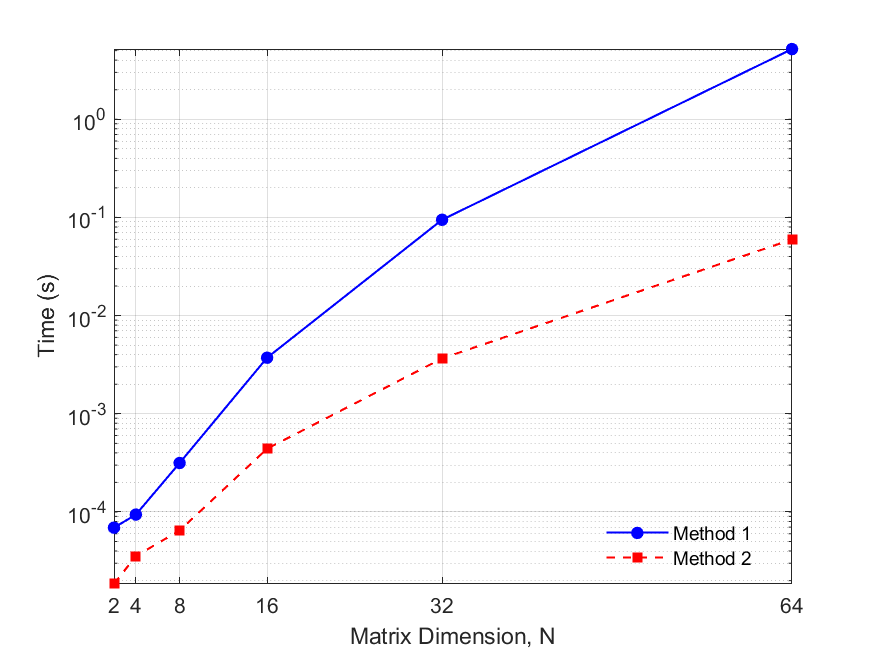
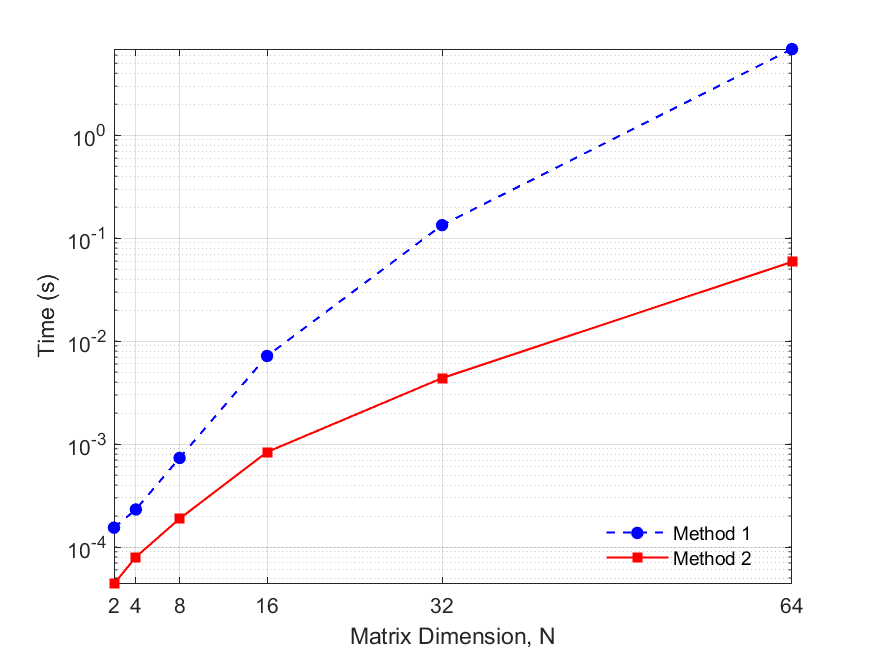
task: Problem-1-a Monte Carlo

diff --git a/Master/TIP8419-ALGEBRA_LINEAR_E_MULTILINEAR/homework/homework_0/hw0-report.html b/Master/TIP8419-ALGEBRA_LINEAR_E_MULTILINEAR/homework/homework_0/hw0-report.html
@@ -56,9 +56,9 @@
 </ol>
 <h2 id="problem-1">Problem 1</h2>
 <h3 id="item-a">Item (a)</h3>
-<blockquote>
-<p>Method 1</p>
-</blockquote>
+<ul>
+<li>Method 1</li>
+</ul>
 <p class="katex-block"><span class="katex-display"><span class="katex"><span class="katex-mathml"><math xmlns="http://www.w3.org/1998/Math/MathML" display="block"><semantics><mrow><mo stretchy="false">(</mo><msub><mi mathvariant="bold">A</mi><mrow><mi>N</mi><mo>×</mo><mi>N</mi></mrow></msub><mo>⊗</mo><msub><mi mathvariant="bold">B</mi><mrow><mi>N</mi><mo>×</mo><mi>N</mi></mrow></msub><msup><mo stretchy="false">)</mo><mrow><mo>−</mo><mn>1</mn></mrow></msup></mrow><annotation encoding="application/x-tex">(\mathbf{A}_{N \times N} \otimes \mathbf{B}_{N \times N} )^{-1}
 </annotation></semantics></math></span><span class="katex-html" aria-hidden="true"><span class="base"><span class="strut" style="height:1em;vertical-align:-0.25em;"></span><span class="mopen">(</span><span class="mord"><span class="mord mathbf">A</span><span class="msupsub"><span class="vlist-t vlist-t2"><span class="vlist-r"><span class="vlist" style="height:0.3283em;"><span style="top:-2.55em;margin-left:0em;margin-right:0.05em;"><span class="pstrut" style="height:2.7em;"></span><span class="sizing reset-size6 size3 mtight"><span class="mord mtight"><span class="mord mathnormal mtight" style="margin-right:0.10903em;">N</span><span class="mbin mtight">×</span><span class="mord mathnormal mtight" style="margin-right:0.10903em;">N</span></span></span></span></span><span class="vlist-s"></span></span><span class="vlist-r"><span class="vlist" style="height:0.2083em;"><span></span></span></span></span></span></span><span class="mspace" style="margin-right:0.2222em;"></span><span class="mbin">⊗</span><span class="mspace" style="margin-right:0.2222em;"></span></span><span class="base"><span class="strut" style="height:1.1141em;vertical-align:-0.25em;"></span><span class="mord"><span class="mord mathbf">B</span><span class="msupsub"><span class="vlist-t vlist-t2"><span class="vlist-r"><span class="vlist" style="height:0.3283em;"><span style="top:-2.55em;margin-left:0em;margin-right:0.05em;"><span class="pstrut" style="height:2.7em;"></span><span class="sizing reset-size6 size3 mtight"><span class="mord mtight"><span class="mord mathnormal mtight" style="margin-right:0.10903em;">N</span><span class="mbin mtight">×</span><span class="mord mathnormal mtight" style="margin-right:0.10903em;">N</span></span></span></span></span><span class="vlist-s"></span></span><span class="vlist-r"><span class="vlist" style="height:0.2083em;"><span></span></span></span></span></span></span><span class="mclose"><span class="mclose">)</span><span class="msupsub"><span class="vlist-t"><span class="vlist-r"><span class="vlist" style="height:0.8641em;"><span style="top:-3.113em;margin-right:0.05em;"><span class="pstrut" style="height:2.7em;"></span><span class="sizing reset-size6 size3 mtight"><span class="mord mtight"><span class="mord mtight">−</span><span class="mord mtight">1</span></span></span></span></span></span></span></span></span></span></span></span></span></p>
 <ul>
@@ -67,7 +67,9 @@
 <p class="katex-block"><span class="katex-display"><span class="katex"><span class="katex-mathml"><math xmlns="http://www.w3.org/1998/Math/MathML" display="block"><semantics><mrow><mo stretchy="false">(</mo><msub><mi mathvariant="bold">A</mi><mrow><mi>N</mi><mo>×</mo><mi>N</mi></mrow></msub><msup><mo stretchy="false">)</mo><mrow><mo>−</mo><mn>1</mn></mrow></msup><mo>⊗</mo><mo stretchy="false">(</mo><msub><mi mathvariant="bold">B</mi><mrow><mi>N</mi><mo>×</mo><mi>N</mi></mrow></msub><msup><mo stretchy="false">)</mo><mrow><mo>−</mo><mn>1</mn></mrow></msup></mrow><annotation encoding="application/x-tex">(\mathbf{A}_{N \times N})^{-1} \otimes (\mathbf{B}_{N \times N})^{-1}
 </annotation></semantics></math></span><span class="katex-html" aria-hidden="true"><span class="base"><span class="strut" style="height:1.1141em;vertical-align:-0.25em;"></span><span class="mopen">(</span><span class="mord"><span class="mord mathbf">A</span><span class="msupsub"><span class="vlist-t vlist-t2"><span class="vlist-r"><span class="vlist" style="height:0.3283em;"><span style="top:-2.55em;margin-left:0em;margin-right:0.05em;"><span class="pstrut" style="height:2.7em;"></span><span class="sizing reset-size6 size3 mtight"><span class="mord mtight"><span class="mord mathnormal mtight" style="margin-right:0.10903em;">N</span><span class="mbin mtight">×</span><span class="mord mathnormal mtight" style="margin-right:0.10903em;">N</span></span></span></span></span><span class="vlist-s"></span></span><span class="vlist-r"><span class="vlist" style="height:0.2083em;"><span></span></span></span></span></span></span><span class="mclose"><span class="mclose">)</span><span class="msupsub"><span class="vlist-t"><span class="vlist-r"><span class="vlist" style="height:0.8641em;"><span style="top:-3.113em;margin-right:0.05em;"><span class="pstrut" style="height:2.7em;"></span><span class="sizing reset-size6 size3 mtight"><span class="mord mtight"><span class="mord mtight">−</span><span class="mord mtight">1</span></span></span></span></span></span></span></span></span><span class="mspace" style="margin-right:0.2222em;"></span><span class="mbin">⊗</span><span class="mspace" style="margin-right:0.2222em;"></span></span><span class="base"><span class="strut" style="height:1.1141em;vertical-align:-0.25em;"></span><span class="mopen">(</span><span class="mord"><span class="mord mathbf">B</span><span class="msupsub"><span class="vlist-t vlist-t2"><span class="vlist-r"><span class="vlist" style="height:0.3283em;"><span style="top:-2.55em;margin-left:0em;margin-right:0.05em;"><span class="pstrut" style="height:2.7em;"></span><span class="sizing reset-size6 size3 mtight"><span class="mord mtight"><span class="mord mathnormal mtight" style="margin-right:0.10903em;">N</span><span class="mbin mtight">×</span><span class="mord mathnormal mtight" style="margin-right:0.10903em;">N</span></span></span></span></span><span class="vlist-s"></span></span><span class="vlist-r"><span class="vlist" style="height:0.2083em;"><span></span></span></span></span></span></span><span class="mclose"><span class="mclose">)</span><span class="msupsub"><span class="vlist-t"><span class="vlist-r"><span class="vlist" style="height:0.8641em;"><span style="top:-3.113em;margin-right:0.05em;"><span class="pstrut" style="height:2.7em;"></span><span class="sizing reset-size6 size3 mtight"><span class="mord mtight"><span class="mord mtight">−</span><span class="mord mtight">1</span></span></span></span></span></span></span></span></span></span></span></span></span></p>
 <p>for <span class="katex"><span class="katex-mathml"><math xmlns="http://www.w3.org/1998/Math/MathML"><semantics><mrow><mi>n</mi><mo>∈</mo><mo stretchy="false">{</mo><mn>2</mn><mo separator="true">,</mo><mn>4</mn><mo separator="true">,</mo><mn>6</mn><mo separator="true">,</mo><mn>8</mn><mo separator="true">,</mo><mn>16</mn><mo separator="true">,</mo><mn>32</mn><mo separator="true">,</mo><mn>64</mn><mo stretchy="false">}</mo></mrow><annotation encoding="application/x-tex">n \in \{2,4,6,8,16,32,64\}</annotation></semantics></math></span><span class="katex-html" aria-hidden="true"><span class="base"><span class="strut" style="height:0.5782em;vertical-align:-0.0391em;"></span><span class="mord mathnormal">n</span><span class="mspace" style="margin-right:0.2778em;"></span><span class="mrel">∈</span><span class="mspace" style="margin-right:0.2778em;"></span></span><span class="base"><span class="strut" style="height:1em;vertical-align:-0.25em;"></span><span class="mopen">{</span><span class="mord">2</span><span class="mpunct">,</span><span class="mspace" style="margin-right:0.1667em;"></span><span class="mord">4</span><span class="mpunct">,</span><span class="mspace" style="margin-right:0.1667em;"></span><span class="mord">6</span><span class="mpunct">,</span><span class="mspace" style="margin-right:0.1667em;"></span><span class="mord">8</span><span class="mpunct">,</span><span class="mspace" style="margin-right:0.1667em;"></span><span class="mord">16</span><span class="mpunct">,</span><span class="mspace" style="margin-right:0.1667em;"></span><span class="mord">32</span><span class="mpunct">,</span><span class="mspace" style="margin-right:0.1667em;"></span><span class="mord">64</span><span class="mclose">}</span></span></span></span></p>
-<hr>
+<p align="center">
+<img src="https://raw.githubusercontent.com/lucasabdalah/Courses-HWs/master/Master/TIP8419-ALGEBRA_LINEAR_E_MULTILINEAR/homework/homework_0/hw0-problem1-a.png" alt="alt text" title="image Title" width="512" />
+</p>
 <h2 id="problem-2">Problem 2</h2>
 <h3 id="a-method-1">(a) Method 1</h3>
 <p class="katex-block"><span class="katex-display"><span class="katex"><span class="katex-mathml"><math xmlns="http://www.w3.org/1998/Math/MathML" display="block"><semantics><mrow><mo stretchy="false">(</mo><msub><mi mathvariant="bold">A</mi><mrow><mi>N</mi><mo>×</mo><mi>N</mi></mrow></msub><mo>⊗</mo><msub><mi mathvariant="bold">B</mi><mrow><mi>N</mi><mo>×</mo><mi>N</mi></mrow></msub><msup><mo stretchy="false">)</mo><mrow><mo>−</mo><mn>1</mn></mrow></msup></mrow><annotation encoding="application/x-tex">(\mathbf{A}_{N \times N} \otimes \mathbf{B}_{N \times N} )^{-1}

diff --git a/Master/TIP8419-ALGEBRA_LINEAR_E_MULTILINEAR/homework/homework_0/problem_1.m b/Master/TIP8419-ALGEBRA_LINEAR_E_MULTILINEAR/homework/homework_0/problem_1.m
@@ -6,30 +6,30 @@ function output = problem_1
     % Long description
     
     % Item A
-    % data.MC = 2;
-    % data.N = 2.^(1:6);
-    % data.time_a_method1 = zeros(data.MC, length(data.N));
-    % data.time_a_method2 = zeros(data.MC, length(data.N));
+    data.MC = 2;
+    data.N = 2.^(1:6);
+    data.time_a_method1 = zeros(data.MC, length(data.N));
+    data.time_a_method2 = zeros(data.MC, length(data.N));
 
-    % for ii = 1:1:length(data.N)
-    %     data.A{ii} = complex(randn(data.N(ii), data.N(ii)), randn(data.N(ii),data.N(ii)));
-    %     data.B{ii} = complex(randn(data.N(ii), data.N(ii)), randn(data.N(ii),data.N(ii)));
-    % end
+    for ii = 1:1:length(data.N)
+        data.A{ii} = complex(randn(data.N(ii), data.N(ii)), randn(data.N(ii),data.N(ii)));
+        data.B{ii} = complex(randn(data.N(ii), data.N(ii)), randn(data.N(ii),data.N(ii)));
+    end
     
-    % for RMC = 1:1:data.MC
+    for RMC = 1:1:data.MC
         
-    %     fprintf('Monte Carlo Step: %2f ...\n', RMC)
+        fprintf('Monte Carlo Step: %2f ...\n', RMC)
 
-    %     for ii = 1:1:length(data.N)
+        for ii = 1:1:length(data.N)
             
-    %         fprintf('Matrix Dimension Step: %2f ... \n', ii)
+            fprintf('Matrix Dimension Step: %2f ... \n', ii)
 
-    %         [data.time_a_method1(RMC,ii)] = a_method1(data.A{ii},data.B{ii});
-    %         [data.time_a_method2(RMC,ii)] = a_method2(data.A{ii},data.B{ii});
-    %     end
-    % end    
+            [data.time_a_method1(RMC,ii)] = a_method1(data.A{ii},data.B{ii});
+            [data.time_a_method2(RMC,ii)] = a_method2(data.A{ii},data.B{ii});
+        end
+    end    
     
-    % output = data;
+    output = data;
 
     % Item B
 
@@ -37,20 +37,23 @@ function output = problem_1
     % data2.N = 2.^(1:6);
     % data2.time_a_method1 = zeros(data.MC, length(data.N));
     % data2.time_a_method2 = zeros(data.MC, length(data.N));
-    K = 2:2:10;
-    N = length(K);
-    time_cost = zeros(MC, N);
 
-    for ii = 1:1:N
-        for jj = 1:1:K(ii)
-            time_cost(ii) = b_method1(K);
-            disp(jj)
-        end
-    end
 
-    output = time_cost;
+
+%     K = 2:2:10;
+%     N = length(K);
+%     time_cost = zeros(MC, N);
+
+%     for ii = 1:1:N
+%         for jj = 1:1:K(ii)
+%             time_cost(ii) = b_method1(K);
+%             disp(jj)
+%         end
+%     end
+
+%     output = time_cost;
     
-end
+% end
 
 % Item A
 % function [time] = a_method1(A, B)

diff --git a/Master/TIP8419-ALGEBRA_LINEAR_E_MULTILINEAR/homework/homework_0/hw0.m b/Master/TIP8419-ALGEBRA_LINEAR_E_MULTILINEAR/homework/homework_0/hw0.m
@@ -4,29 +4,27 @@
 % script: hw0.m
 % 2022/04/18 - v1
 
-%% Problem 1 ------------------------------------------------------------------
+%% Clear Ambient
+close all; % clc;
 
-%% generate data
 
-% item (a) 
-% data = problem_1;
+%% Problem 1 - item (a) ------------------------------------------------------------------
+% hw0_problem1 % generate data
 % disp('Saving data...')
-% % save('hw0_problem1_data.mat', data)
-% save('newstruct.mat','-struct','data');
+% save('hw0_data.mat','-struct','data');
 % disp('Saved sucessfully')
+data = load('hw0_data.mat');
 
-%  Compute the mean for each method
-load('newstruct.mat')
 
-%% plot results
-close all
-clc;
-t1 = mean(time_method1, 1);
-t2 = mean(time_method2, 1);
+%% Plot results
+N = data.N;
+t1 = mean(data.time_a_method1, 1);
+t2 = mean(data.time_a_method2, 1);
+
 h = figure();
 semilogy(N,t1,...
     'Color', 'blue',...        
-    'LineStyle', '-',...
+    'LineStyle', '--',...
     'LineWidth', 1.0,...
     'Marker', 'o',...
     'MarkerFaceColor', 'blue',...
@@ -35,7 +33,7 @@ semilogy(N,t1,...
 hold on
 semilogy(N,t2,...
     'Color', 'red',...        
-    'LineStyle', '--',...
+    'LineStyle', '-',...
     'LineWidth', 1.0,...
     'Marker', 'square',...
     'MarkerFaceColor', 'red',...
@@ -48,11 +46,9 @@ ylabel('Time (s)')
 legend(["Method 1", "Method 2"], 'Location', 'Best') % legend(leg, 'Location', 'Northeastoutside')
 legend boxoff
 grid on
-
 axis tight
+
 savefig_tight(h, "hw0-problem1-a", "both")
 
-% item (b) 
 
-%% Problem 2 ------------------------------------------------------------------
-
+%% Problem 1 - item (b) ------------------------------------------------------------------

diff --git a/Master/TIP8419-ALGEBRA_LINEAR_E_MULTILINEAR/homework/homework_0/hw0_problem1.m b/Master/TIP8419-ALGEBRA_LINEAR_E_MULTILINEAR/homework/homework_0/hw0_problem1.m
@@ -1,0 +1,65 @@
+%% Homework 0 - Multilinear Algebra
+% ----------------------------
+% Problema 1 - Item a: Kronecker Product and Matrix Inversion Cost
+% hw0_problem1.m
+% Author: Lucas Abdalah
+%
+
+%% General Setup
+data.MC = 100;
+data.N = 2.^(1:6);
+data.time_a_method1 = zeros(data.MC, length(data.N));
+data.time_a_method2 = zeros(data.MC, length(data.N));
+A = cell(data.MC, length(data.N));
+B = cell(data.MC, length(data.N));
+
+tStart = tic;
+
+for ii = 1:1:length(data.N)
+ 
+    A{ii} = complex(randn(data.N(ii), data.N(ii)), randn(data.N(ii),data.N(ii)));
+    B{ii} = complex(randn(data.N(ii), data.N(ii)), randn(data.N(ii),data.N(ii)));
+
+end
+
+
+for RMC = 1:1:data.MC
+    
+    fprintf('.\n.\n.\nMonte Carlo Step: %2.0f \n- - - - - - - - - - -\n', RMC)
+
+    for ii = 1:1:length(data.N)
+        
+        fprintf('Matrix Dimension Step: %2.0f \n', data.N(ii))
+
+        [data.time_a_method1(RMC,ii)] = a_method1(A{ii},B{ii});
+        [data.time_a_method2(RMC,ii)] = a_method2(A{ii},B{ii});
+    end
+
+    fprintf('.\n.\n.\n Elapsed Time: %2.1fs \n', sum([ ... 
+        data.time_a_method1(:);  data.time_a_method2(:)], 1))
+    
+end    
+
+% data.t_elapsed = sum([data.time_a_method1(:); data.time_a_method2(:)], 1);
+data.tEnd = toc(tStart); % pair 2: toc
+fprintf('.\n.\n.\nTotal Time: %2.1fs \n', data.tEnd)
+
+
+%% Save Data
+% disp('Saving data...')
+% save('hw0_data.mat','-struct','data');
+% disp('Saved sucessfully')
+
+% Method 1
+function [time] = a_method1(A, B)
+    tic;
+    inv(kron(A,B));
+    time = toc;
+end
+
+% Method 2
+function [time] = a_method2(A, B)
+    tic;
+    kron(inv(A),inv(B));
+    time = toc;
+end

diff --git a/Master/TIP8419-ALGEBRA_LINEAR_E_MULTILINEAR/homework/homework_0/hw0-report.md b/Master/TIP8419-ALGEBRA_LINEAR_E_MULTILINEAR/homework/homework_0/hw0-report.md
@@ -12,7 +12,7 @@ See the section on [`Problem 1`](#Method1)
 ## Problem 1
 ### Item (a) 
 
-> Method 1
+- Method 1
   
 $$ (\mathbf{A}_{N \times N} \otimes \mathbf{B}_{N \times N} )^{-1}$$
 
@@ -22,9 +22,12 @@ $$ (\mathbf{A}_{N \times N})^{-1} \otimes (\mathbf{B}_{N \times N})^{-1}$$
 
 for $n \in \{2,4,6,8,16,32,64\}$
 
-- - -
+<p align="center">
+<img src="https://raw.githubusercontent.com/lucasabdalah/Courses-HWs/master/Master/TIP8419-ALGEBRA_LINEAR_E_MULTILINEAR/homework/homework_0/hw0-problem1-a.png" alt="alt text" title="image Title" width="512" />
+</p>
 
 ## Problem 2
+
 
 ### (a) Method 1
 $$ (\mathbf{A}_{N \times N} \otimes \mathbf{B}_{N \times N} )^{-1}$$
